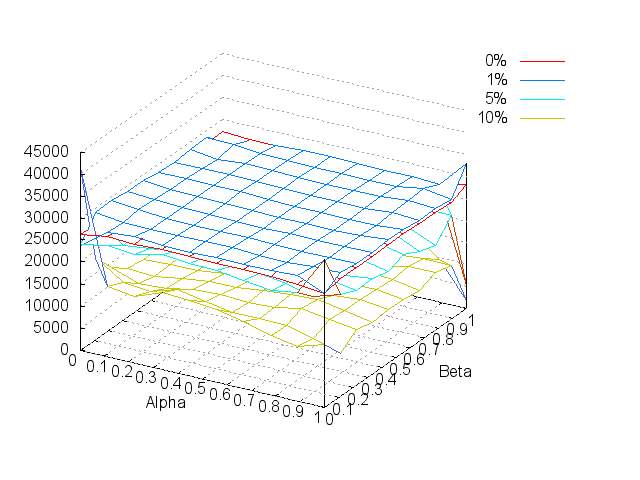
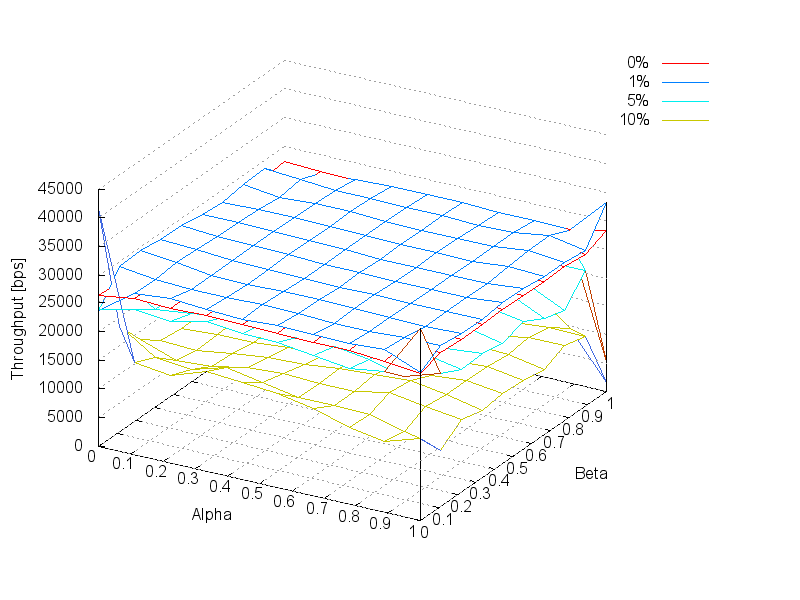
Se agrego el label faltante en los graficos 3d

Changed region(s): [[0.0, 0.25, 0.7812, 0.9062], [0.75, 0.0938, 0.875, 0.25]]

diff --git a/Tp3/informe/resultados.tex b/Tp3/informe/resultados.tex
@@ -392,12 +392,11 @@ rangos ideales de $\alpha$ y $\beta$ por la presencia de m\'ultiples
 
 %3d--------------------------------------
 \foreach \delay in {0, 5, 10, 25, 50, 100, 250, 500}{
-    \clearpage
 
     \begin{figure}
         \centering
         \includegraphics[width=0.5\textwidth,
-                        trim = 2cm 1.5cm 2cm 1.2cm,
+                        trim = 0.2cm 1.5cm 3cm 1.2cm,
                         clip
                         ]{img/throughput/delay\delay_throughput_3d_xyz.png}
         \caption{Delay \delay ms - Vista Isom\'etrica}
@@ -407,7 +406,7 @@ rangos ideales de $\alpha$ y $\beta$ por la presencia de m\'ultiples
     \begin{figure}
         \centering
         \includegraphics[width=0.5\textwidth,
-                        trim = 1.5cm 2cm 4cm 1cm,
+                        trim = 1.5cm 2cm 5cm 1cm,
                         clip
                         ]{img/throughput/delay\delay_throughput_3d_xz.png}
         \caption{Delay \delay ms - Plano $\alpha$}
@@ -417,12 +416,14 @@ rangos ideales de $\alpha$ y $\beta$ por la presencia de m\'ultiples
     \begin{figure}
         \centering
         \includegraphics[width=0.5\textwidth,
-                        trim = 1.5cm 2cm 4cm 1cm,
+                        trim = 1.5cm 2cm 5cm 1cm,
                         clip
                         ]{img/throughput/delay\delay_throughput_3d_yz.png}
         \caption{Delay \delay ms - Plano $\beta$}
         \label{fig:throughput:delay\delay_beta}
     \end{figure}
+
+    \clearpage
 }
 
 \FloatBarrier
